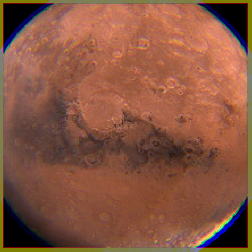
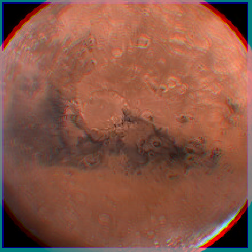
Intento 1 triplete

diff --git a/modules/telescope.py b/modules/telescope.py
@@ -3,41 +3,40 @@ import pandas as pd
 import numpy as np
 from modules.tracer import *
 
-def main_system(m):
+def telescope_system(m):
     df = pd.read_json("data/lenses.json") 
+    
     if m == '0':
         obj = Image.open("img/mars.jpg", "r")
-    else:
+    elif m == '1':
         obj = Image.open("img/nuevaImagen.png", "r")
+        
+    width, height = obj.size
 
     n1 = 1
     
     CHIEF_RAY = 0
     PARALLEL_RAY = 1
 
-    res = 40/63
-
- 
-    so = 1320
+    so = df.loc['mars','object']['so']
+    do = df.loc['mars','object']['do']
+    dio = df.loc['objective2','mainSystem']['di']
     
-    if m=='0':
-        f1 = np.array(df.loc['objective2','mainSystem']['f'])
-        f2 = np.array(df.loc['eyespace2','mainSystem']['f'])
+    res = dio/height
+    
+    f1 = np.array(df.loc['objective2','mainSystem']['f'])
+    f2 = np.array(df.loc['eyespace2','mainSystem']['f'])
+    
+    si1 = (f1*so)/(so-f1)
+    so2 = -(si1-(f1+f2))
+    si2 = (f2*so2)/(so2-f2)
+    
+    if m == '0':
+        
         f3 = 0
-        si1 = (f1*so)/(so-f1)
-        so2 = -(si1-(f1+f2))
-        si2 = (f2*so2)/(so2-f2)
         si = si2
 
-    else:
-        f1 = np.array(df.loc['objective2','mainSystem']['f'])
-        f2 = np.array(df.loc['eyespace2','mainSystem']['f'])
-
-        si1 = (f1*so)/(so-f1)
-        so2 = -(si1-(f1+f2))
-        si2 = (f2*so2)/(so2-f2)
-    
-        print(si2)
+    elif m == '1':
     
         d1 = df.loc['convergentLens','triplet']['d']
         d2 = df.loc['divergentLens','triplet']['d']
@@ -52,8 +51,8 @@ def main_system(m):
         f = 1/((1/f1)+(1/f2)+(1/f3))
 
         si = (f*so)/(so-f)
-
-    width, height = obj.size
+        print("so: ", so)
+        print("si: ", si)
 
     width_output = int(width)
     height_output = int(height)
@@ -62,14 +61,14 @@ def main_system(m):
 
     pixels = image.load()
 
-    
-    if m=='1':
+    if m == '0':
+        #Compute the cummulated image with parallel ray
+        pixels = ray_tracing(width, height, CHIEF_RAY, so, n1, obj, res, pixels, width_output, height_output, si, m, f1, f2, f3)
+        pixels = ray_tracing(width, height, PARALLEL_RAY, so, n1, obj, res, pixels, width_output, height_output, si, m, f1, f2, f3)    
+        image.save('img/nuevaImagen.png', format='PNG')
+        
+    elif m == '1':
         #Compute the cummulated image with parallel ray
         pixels = ray_tracing(width, height, CHIEF_RAY, so, n1, obj, res, pixels, width_output, height_output, si, m, f1, f2, f3)
         pixels = ray_tracing(width, height, PARALLEL_RAY, so, n1, obj, res, pixels, width_output, height_output, si, m, f1, f2, f3)    
         image.save('img/nuevaImagenAberracionCorregida.png', format='PNG')
-    else:
-        #Compute the cummulated image with parallel ray
-        pixels = ray_tracing(width, height, CHIEF_RAY, so, n1, obj, res, pixels, width_output, height_output, si, m, f1, f2, f3)
-        pixels = ray_tracing(width, height, PARALLEL_RAY, so, n1, obj, res, pixels, width_output, height_output, si, m, f1, f2, f3)    
-        image.save('img/nuevaImagen.png', format='PNG') 

diff --git a/index.py b/index.py
@@ -1,6 +1,5 @@
-from modules import main, triplet, interpolation, analysisResults, telescopio
+from modules import telescope, interpolation, analysisResults
 import pandas as pd
-
 
 d=True
 t=True
@@ -8,10 +7,10 @@ while d==True:
     print('Escoja el sistema de procesamiento: \n 1. Sistema Principal \n 2. Sistema Triplete \n 3. Interpolación \n 4. Gráficas \n 5. Sistema aberrado e interpolado \n 6. Sistema sin aberración e interpolado \n 7. Analisis de resultados')
     n=input()
     if(n == '1'):
-        main.main_system()
+        telescope.telescope_system('0')
 
     elif(n == '2'):
-        triplet.triplet_system()
+        telescope.telescope_system('1')
         
     elif(n == '3'):
         print("Elija la imagen a interpolar: \n 1. Imagen Aberrada \n 2. Imagen Sin Aberración")
@@ -21,20 +20,22 @@ while d==True:
 
     elif(n == '4'):
         analysisResults.figures()
+        
     elif(n == '5'):
-        telescopio.main_system('0')
+        telescope.telescope_system('0')
         imgName = ['nuevaImagen', 'nuevaImagenAberracionCorregida', 'nuevaImagenAberradaInterpolada', 'nuevaImagenSinAberracionInterpolada']
         interpolation.interpolation_system(imgName, 1)
         
     elif(n == '6'):
-        telescopio.main_system('1')
+        telescope.telescope_system('1')
         imgName = ['nuevaImagen', 'nuevaImagenAberracionCorregida', 'nuevaImagenAberradaInterpolada', 'nuevaImagenSinAberracionInterpolada']
         interpolation.interpolation_system(imgName, 2)
+        
     elif(n == '7'):
-        telescopio.main_system('0')
+        telescope.telescope_system('0')
         imgName = ['nuevaImagen', 'nuevaImagenAberracionCorregida', 'nuevaImagenAberradaInterpolada', 'nuevaImagenSinAberracionInterpolada']
         interpolation.interpolation_system(imgName, 1)
-        telescopio.main_system('1')
+        telescope.telescope_system('1')
         imgName = ['nuevaImagen', 'nuevaImagenAberracionCorregida', 'nuevaImagenAberradaInterpolada', 'nuevaImagenSinAberracionInterpolada']
         interpolation.interpolation_system(imgName, 2)
         analysisResults.figures()
@@ -42,8 +43,8 @@ while d==True:
     else:
         print('Por favor ingrese un valor valido')
         t=False
-        #holi
         pass
+    
     while t==True:
         print('¿Desea continuar? \n y.  n.')
         q=input()

diff --git a/modules/test.py b/modules/test.py
@@ -98,10 +98,21 @@ A = np.array([[-f2/f1, d], [[0, 0, 0], -f1/f2]])
 
 print(A)"""
 
-f1 = np.array(df.loc['convergentLens','triplet']['f'])
+"""f1 = np.array(df.loc['convergentLens','triplet']['f'])
 f2 = np.array(df.loc['divergentLens','triplet']['f'])
 f3 = np.array(df.loc['planarConvergentLens','triplet']['f'])
 
 T = np.array([[[1, 1, 1], [0, 0, 0]], [-(f1*f2 + f1*f3 + f2*f3)/(f1*f2*f3), [1, 1, 1]]])
-
-print(T)
+"""
+so = df.loc['mars','object']['so']
+f1 = np.array(df.loc['objective2','mainSystem']['f'])
+f2 = np.array(df.loc['eyespace2','mainSystem']['f'])
+print(f2)
+f3 = 0
+si1 = (f1*so)/(so-f1)
+print(si1)
+so2 = -(si1-(f1+f2))
+print(so2)
+si2 = (f2*so2)/(-so2-f2)
+si = si2
+print(si)

diff --git a/modules/tracer.py b/modules/tracer.py
@@ -89,8 +89,9 @@ def ray_tracing(width, height, rayo, so, n1, obj, res, pixels, width_output, hei
 
             #Conversion from image coordinates to lens coordinates
             if(m == '0'):
-                x_prime = x*(126/1.6)*Mt
-                y_prime = y*(126/1.6)*Mt
+                x_prime = x*(127.5/1.6)*Mt
+                y_prime = y*(127.5/1.6)*Mt
+                
             elif(m == '1'):
                 x_prime = x*Mt
                 y_prime = y*Mt
